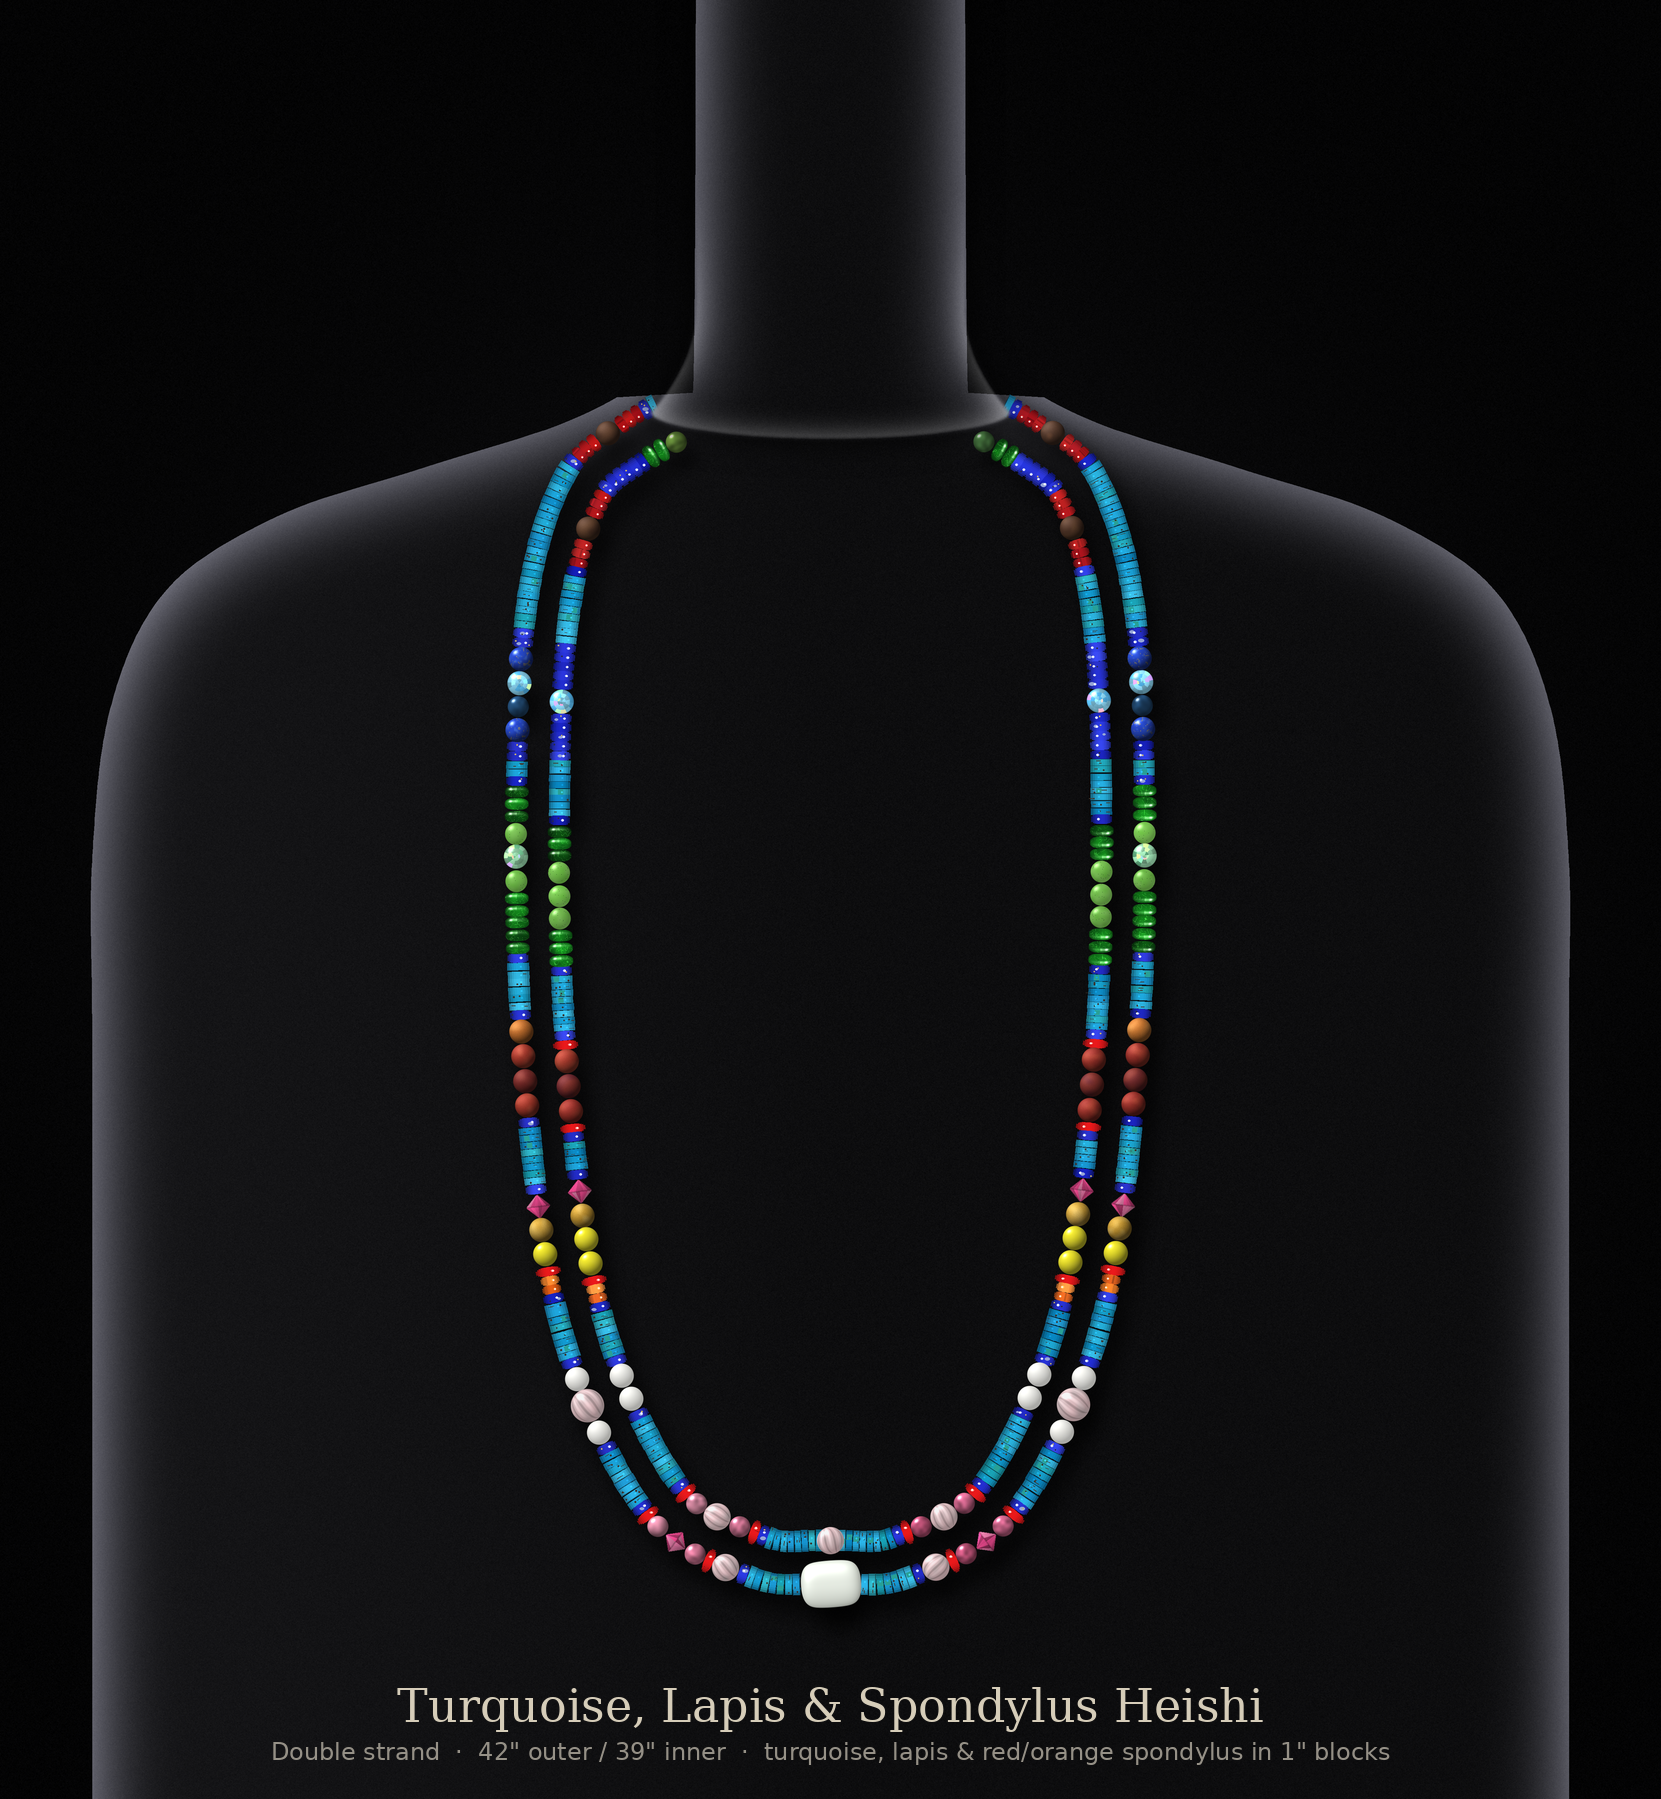
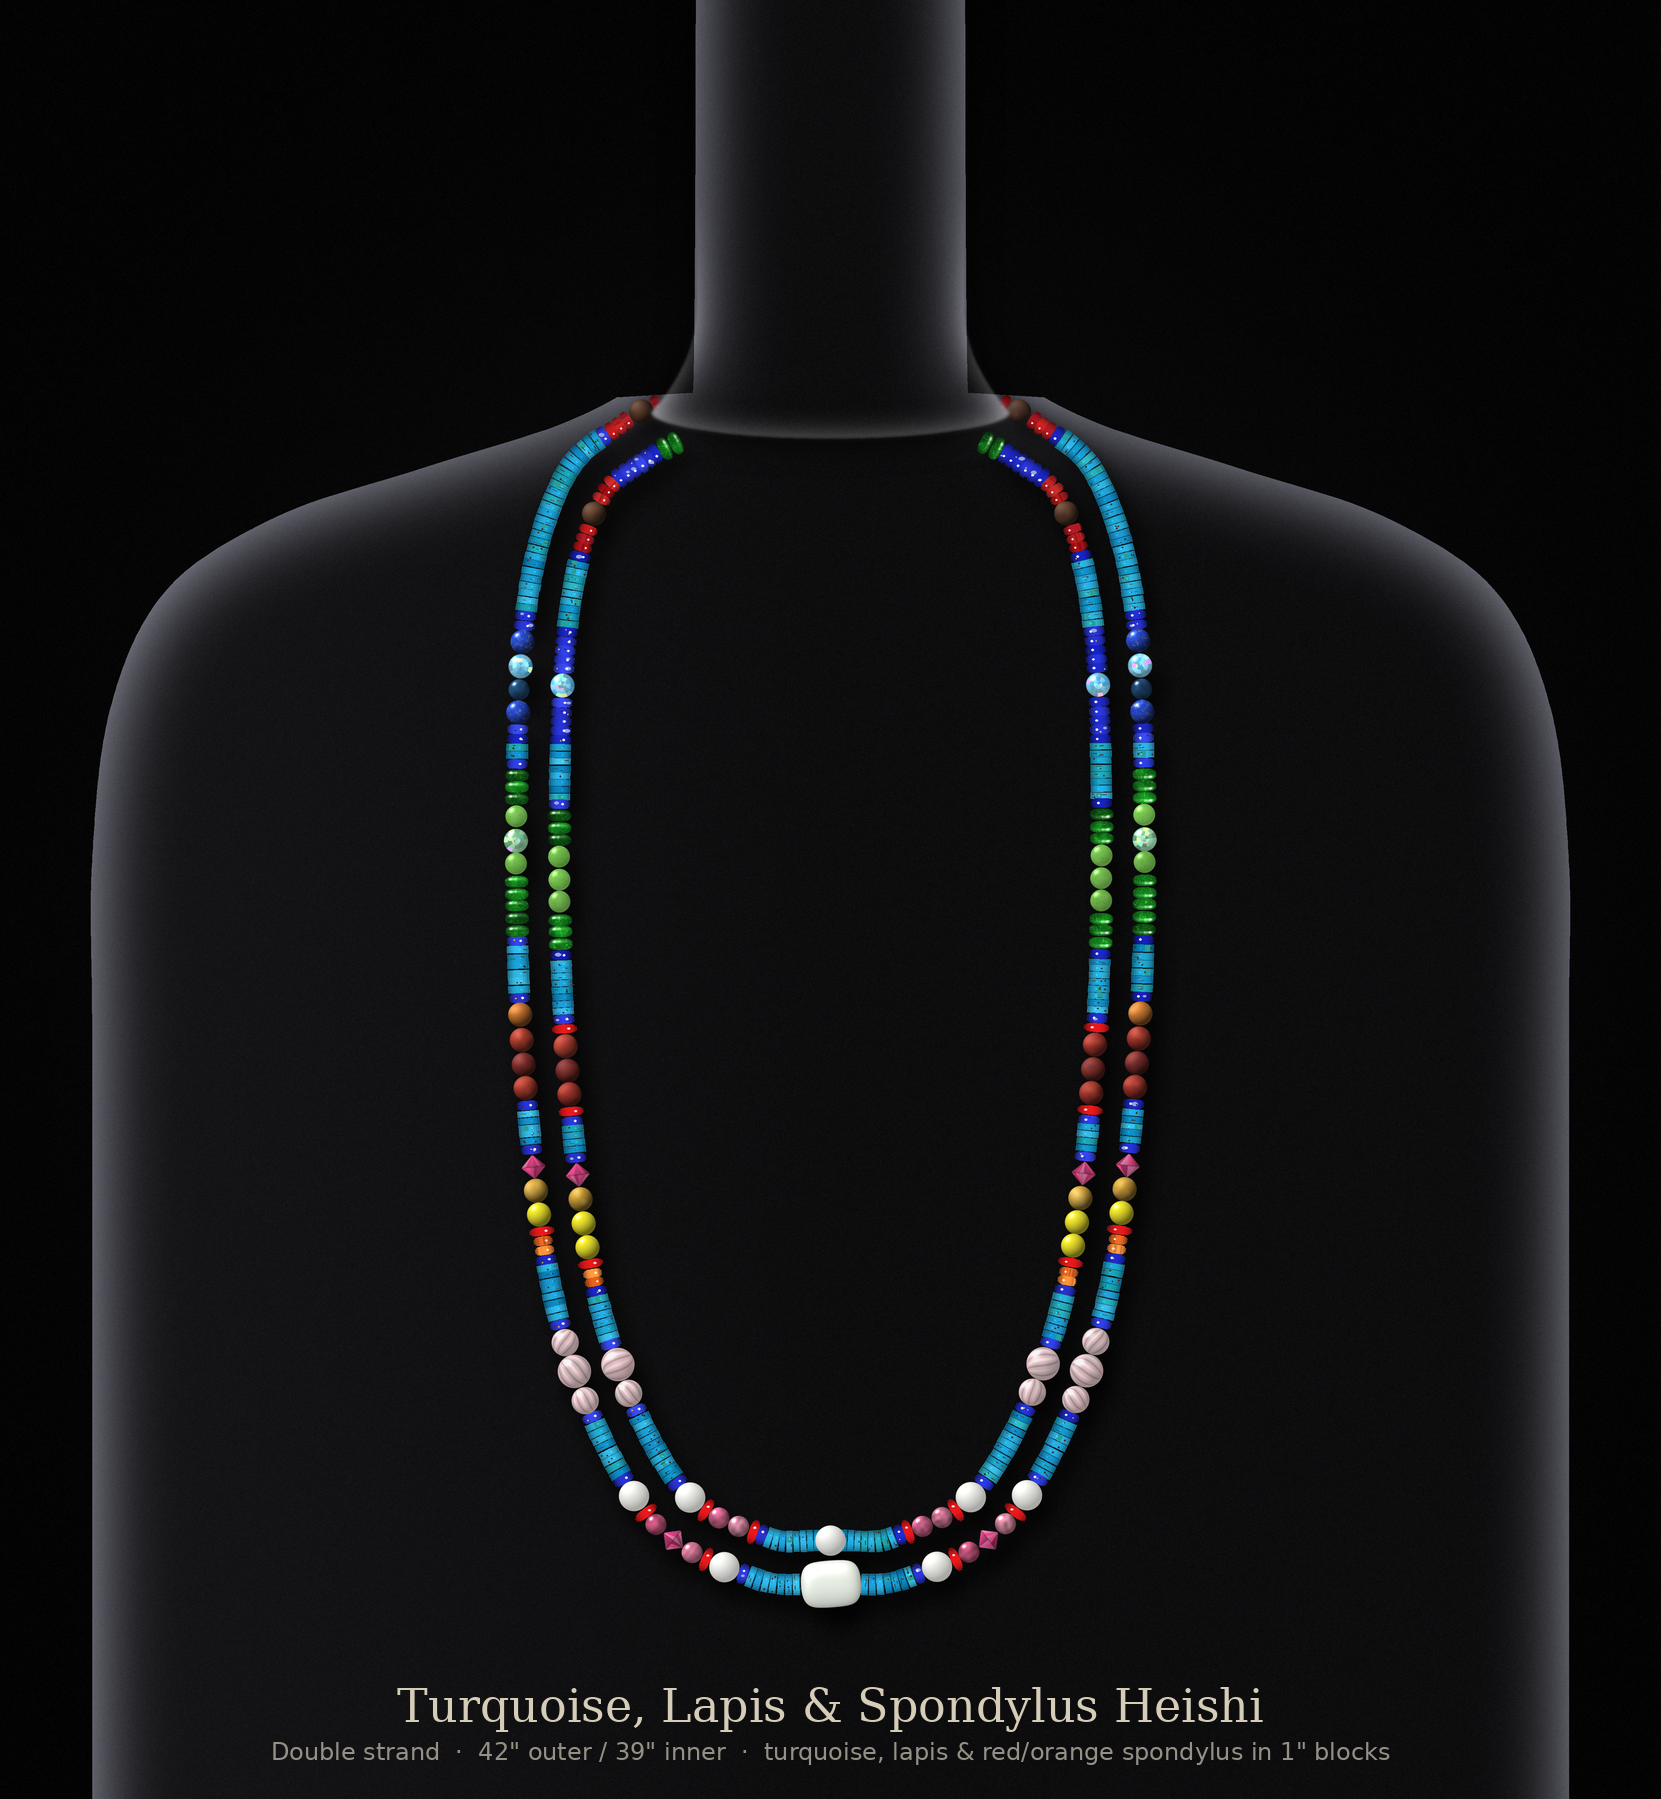
Version 5: rose quartz band below yellow; 10mm white opals at the bottom
Claude-Session: https://claude.ai/code/session_014be1vF4Rdf8sv9Si75Gudv

Changed region(s): [[0.307, 0.2179, 0.7062, 0.9027]]

diff --git a/necklace/render_necklace.py b/necklace/render_necklace.py
@@ -988,6 +988,11 @@ if V4:
                     F(["jade", "jade", "jade"], "diop", 6))
         BANDS[6] = (["mookorg", "mookrd", "mookred", "mookrd"],                             # brown/red, one bead fewer
                     ["redglass", "mookrd", "mookred", "mookrd", "redglass"])                 # brown/red, one bead fewer
+        # rose quartz band where the whites were (per side: 3 x 9 mm + 2 x 11 mm, so 6 + 4 in all)
+        BANDS[7] = (["rq9", "rq11", "rq9"], ["rq11", "rq9"])
+        # whites (10 mm) move to the bottom band next to the focal; inner strand's centre bead is a white too
+        BANDS[8] = (["opal10", "redglass", "pink", "rbic", "pink", "redglass", "opal10"],
+                    ["opal10", "redglass", "pink", "pink", "redglass"])
         # frame the green, red-orange and white bands with one lapis heishi at each end, both strands
         for _bi in (2, 3, 5, 6, 7, 8):   # red, yellow, green, red-orange, white, pink
             BANDS[_bi] = tuple(["lapisH"] + list(b) + ["lapisH"] for b in BANDS[_bi])
@@ -1026,7 +1031,7 @@ if V4:
         F(["jade", "jade"], "diop", 3),                            # G (light)
         F(["pink", "ajas", "pink"], "orange", 5),                  # R (light), then rose quartz at the centre
     ]
-    CENTRE = {0: "focal", 1: "rq9"}
+    CENTRE = {0: "focal", 1: ("opal10" if V5 else "rq9")}   # v5: white opal at the inner strand's centre
     LAP_BUDGET = {0: 15, 1: 15}                # lapis heishi used as dark filler, from the top down (per side)
     KIND_T = {"diop": "peridot", "jade": "gjade7t", "gglass": "v4_gglass", "gtourm": "tour_green", "olive": "v4_olive",
               "tan": "tour_yellow", "pink": "tour_pink", "black": "tour_black", "yellow": "bicone_lime",
